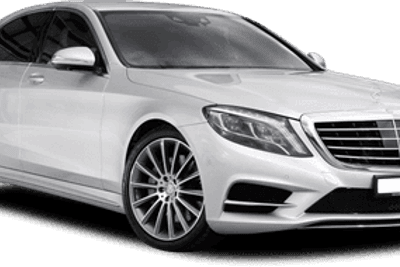
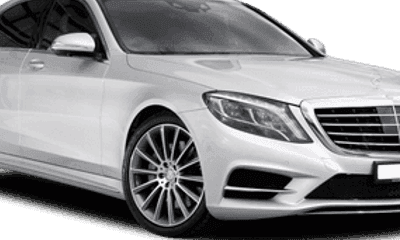
Fix pro.png size, add mobile responsive vehicle images
- pro.png: cropped to 400x240 (tighter, 25.6KB) to match visual weight of other vehicles
- Driver card: vehicle image now shows on mobile (80x70px centered) AND desktop (96x128px right side)
- History view: vehicle image now shows on mobile (72x96px centered) AND desktop (64x88px right side)
- All vehicle data comes from real MongoDB User documents (vehicleName, vehicleColor, vehicleNumberPlate, vehicleImage fields)
- Seed script populates these fields once per driver

diff --git a/client/src/pages/Dashboard.tsx b/client/src/pages/Dashboard.tsx
@@ -1548,22 +1548,34 @@ const [reviewOpen, setReviewOpen] = useState(false);
                           )}
                         </div>
                       </div>
-                    </div>
-                    
-                    {/* Vehicle Image - on right side */}
-                    {bookingDriverInfo.vehicleImage && (
-                      <div className="hidden lg:block shrink-0 ml-auto">
-                        <div className="relative h-24 w-32 rounded-xl overflow-hidden bg-muted/50 border border-border/50">
-                          <img
-                            src={bookingDriverInfo.vehicleImage}
-                            alt={bookingDriverInfo.vehicleName ?? "Vehicle"}
-                            className="h-full w-full object-cover object-center"
-                          />
-                          <div className="absolute inset-0 bg-gradient-to-r from-transparent via-black/10 to-black/20" />
-                        </div>
-                      </div>
-                    )}
-                  </div>
+</div>
+                     
+                     {/* Vehicle Image - responsive: on right side on desktop, below driver on mobile */}
+                     {bookingDriverInfo.vehicleImage && (
+                       <div className="lg:hidden mt-4">
+                         <div className="relative h-20 w-28 mx-auto rounded-xl overflow-hidden bg-muted/50 border border-border/50">
+                           <img
+                             src={bookingDriverInfo.vehicleImage}
+                             alt={bookingDriverInfo.vehicleName ?? "Vehicle"}
+                             className="h-full w-full object-cover object-center"
+                           />
+                           <div className="absolute inset-0 bg-gradient-to-r from-transparent via-black/10 to-black/20" />
+                         </div>
+                       </div>
+                     )}
+                     {bookingDriverInfo.vehicleImage && (
+                       <div className="hidden lg:block shrink-0 ml-auto">
+                         <div className="relative h-24 w-32 rounded-xl overflow-hidden bg-muted/50 border border-border/50">
+                           <img
+                             src={bookingDriverInfo.vehicleImage}
+                             alt={bookingDriverInfo.vehicleName ?? "Vehicle"}
+                             className="h-full w-full object-cover object-center"
+                           />
+                           <div className="absolute inset-0 bg-gradient-to-r from-transparent via-black/10 to-black/20" />
+                         </div>
+                       </div>
+                     )}
+                   </div>
                   
                   {/* Vehicle Details - Below driver info, above rating */}
                   {(bookingDriverInfo.vehicleName || bookingDriverInfo.vehicleColor || bookingDriverInfo.vehicleNumberPlate) && (
@@ -2161,7 +2173,19 @@ const [reviewOpen, setReviewOpen] = useState(false);
                                     )}
                                   </div>
 
-                                  {/* Vehicle Image - Desktop only */}
+                                  {/* Vehicle Image - Responsive: on right side on desktop, below on mobile */}
+                                  {booking.driverInfo?.vehicleImage && (
+                                    <div className="lg:hidden w-full mt-3">
+                                      <div className="relative h-18 w-24 mx-auto rounded-lg overflow-hidden bg-muted/50 border border-border/50">
+                                        <img
+                                          src={booking.driverInfo.vehicleImage}
+                                          alt={booking.driverInfo.vehicleName ?? "Vehicle"}
+                                          className="h-full w-full object-cover object-center"
+                                        />
+                                        <div className="absolute inset-0 bg-gradient-to-r from-transparent via-black/10 to-black/20" />
+                                      </div>
+                                    </div>
+                                  )}
                                   {booking.driverInfo?.vehicleImage && (
                                     <div className="hidden lg:block lg:flex-shrink-0 ml-4">
                                       <div className="relative h-16 w-22 rounded-lg overflow-hidden bg-muted/50 border border-border/50">
